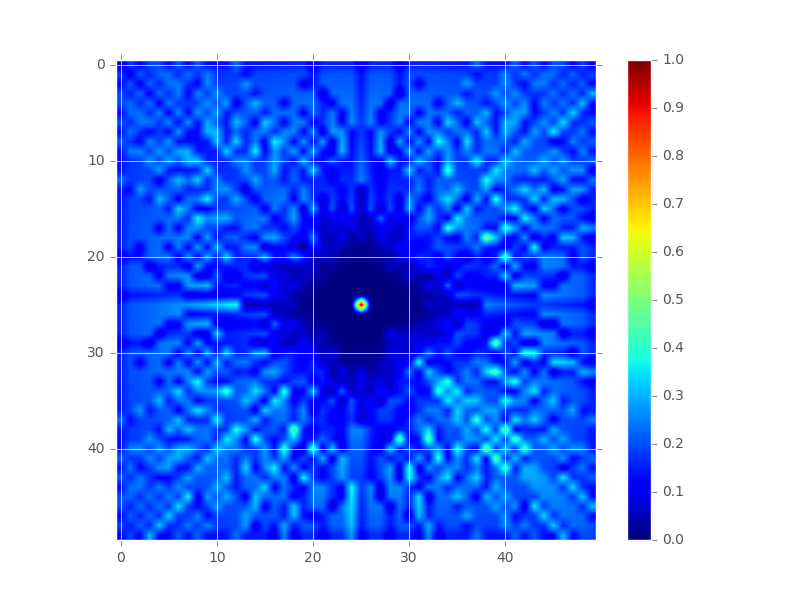
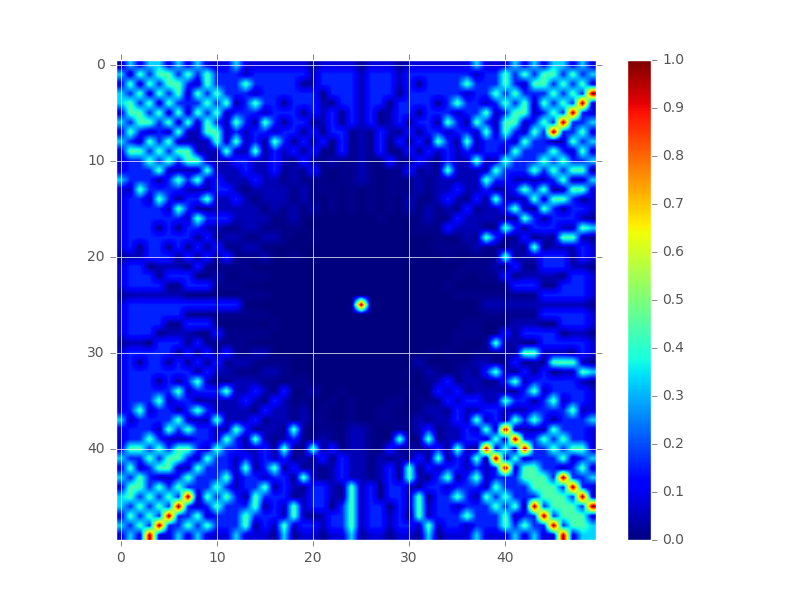
Perofmance evaluation and specific tour count option

diff --git a/SLAM/Simulate.py b/SLAM/Simulate.py
@@ -11,6 +11,7 @@ from LiSim import simResultProcess as prc
 from LiSim import path_gen as gen
 from LiMap.map_utils import map
 from LiMap.user_utils import plot
+from LiMap.user_utils import Performance as perf
 import argparse
 
 np.set_printoptions(precision=3)
@@ -97,6 +98,12 @@ parser.add_argument("-rl", "--relativeLoss",
     """,
     action="store_true"
 )
+parser.add_argument("-tours", "--tours_number",type=int,
+    help="""\
+        Number of tours
+    """,
+    default=100000
+)
 args = parser.parse_args()
 try:
     dim = tuple(args.dimensions)
@@ -110,11 +117,11 @@ graphs = args.graphs
 stats = args.stats
 video = args.video
 relativeLoss = args.relativeLoss
-
+tours_number = args.tours_number
 norm_scale = 0.01 #Map Scaling variable
 FPT = 1 #How many times the map will be update before plotted
 logloss = [] #Logloss list for plotting
-tours_count=0
+print(tours_number)
 
 
 #Initialize and get base info from LiSim
@@ -137,8 +144,7 @@ else:
 
 
 start = time.time() #start the clock
-while True:
-    tours_count+=1
+for tours_count in range(1,tours_number+1):
     #Generate the data points where the measurements must be made
     measure_points =np.array(gen.measure_turn(lidar.pos, 1))
     # Simulate measurement
@@ -156,14 +162,14 @@ while True:
         confusion = prc.genConfusionMatrix(scaled_carte, true_carte, lidar.pos, relativeLoss)
         logloss.append(prc.loss(confusion,lidar.dim))
     else:
-        scaled_carte = expit(carte*norm_scale*100)
-        graphs=True
+        scaled_carte = expit(carte*norm_scale)
         break
 
 cv2.destroyAllWindows()
 animation_time = time.time()-start # Measure running time
-print("FPS:", tours_count/animation_time)
+#print("FPS:", tours_count/animation_time)
 print("Nombre de tours:",tours_count)
+print("Confidence Score",perf.confidence(scaled_carte))
 #Plot the data
 if graphs == True:
     confusion = prc.genConfusionMatrix(scaled_carte, true_carte,lidar.pos,relativeLoss)

diff --git a/SLAM/LiSim/Make_carte.py b/SLAM/LiSim/Make_carte.py
@@ -1,0 +1,32 @@
+import matplotlib.pyplot as plt
+import numpy as np
+import sys
+from bresenham import bresenham
+np.set_printoptions(threshold=sys.maxsize)
+
+dim = [10,10]
+points = []
+data=[]
+carte = np.zeros((10,10))
+
+def onclick(event):
+    points.append((int(event.xdata), int(event.ydata)))
+
+fig,ax = plt.subplots()
+ax.set(xlim=(0, 10),ylim=(0, 10))
+fig.canvas.mpl_connect('button_press_event', onclick)
+
+plt.show()
+
+for i in range(0,len(points)-1):
+    data.append(list(bresenham(points[i][0],points[i][1],points[i+1][0],points[i+1][1])))
+    
+data.append(list(bresenham(points[3][0],points[3][1],points[0][0],points[0][1])))
+
+print(data)
+
+for k in range(0,len(data)):
+    for i in range(0,len(data[k])):
+        carte[data[k][i][0]][data[k][i][1]] = 1
+
+np.savetxt('te.txt', carte, delimiter=',') 

diff --git a/SLAM/LiMap/user_utils/plot.py b/SLAM/LiMap/user_utils/plot.py
@@ -32,7 +32,7 @@ def setupPath(path="Examples/default"):
         pass
 
 # TODO: Slugification
-def plotData(data, name,pos, show=False, printa=False, save=True,path=""):
+def plotData(data, name,pos, show=False, printa=False, save=False,path=""):
     plt.style.use('ggplot')
     if path=="":
         path = _basePath
@@ -51,7 +51,7 @@ def plotData(data, name,pos, show=False, printa=False, save=True,path=""):
 
     return graph
 
-def plot_loss(loss,i, show=False, printa=False, save=True, path=""):
+def plot_loss(loss,i, show=False, printa=False, save=False, path=""):
     plt.style.use('seaborn')
     if path=="":
         path = _basePath

diff --git a/SLAM/LiMap/user_utils/Performance.py b/SLAM/LiMap/user_utils/Performance.py
@@ -1,0 +1,5 @@
+import numpy as np
+
+def confidence(carte):
+    uncertainty = np.absolute(carte-0.5)
+    return np.sum(uncertainty)/uncertainty.size
